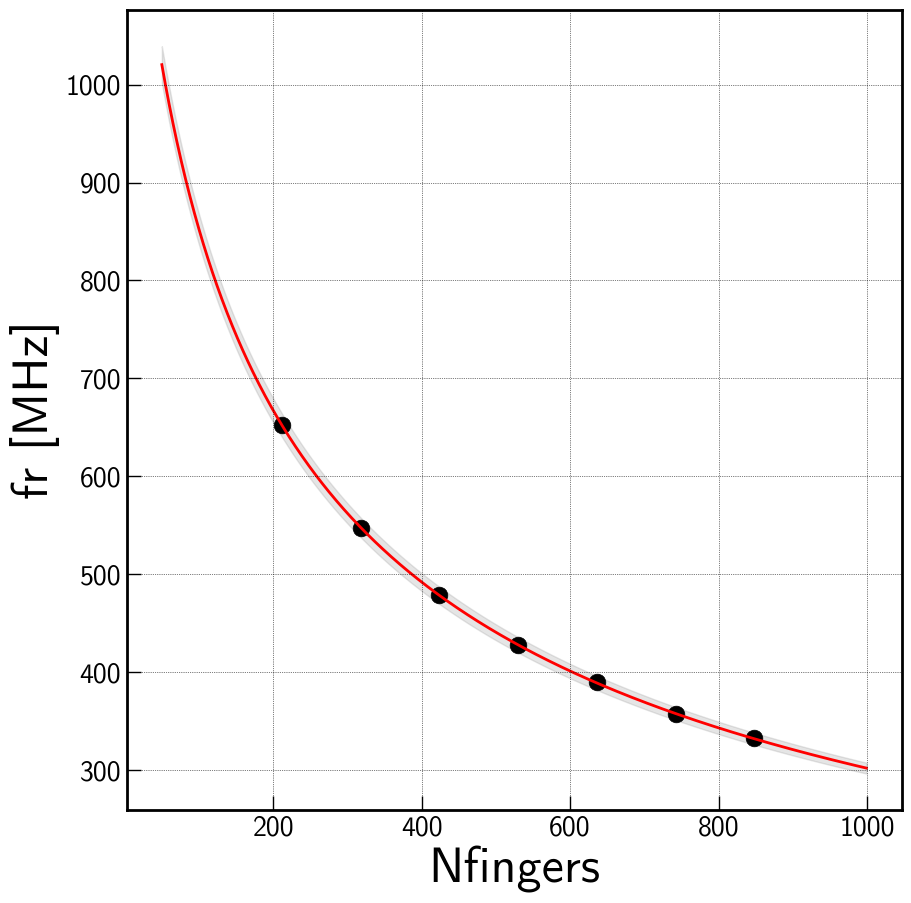
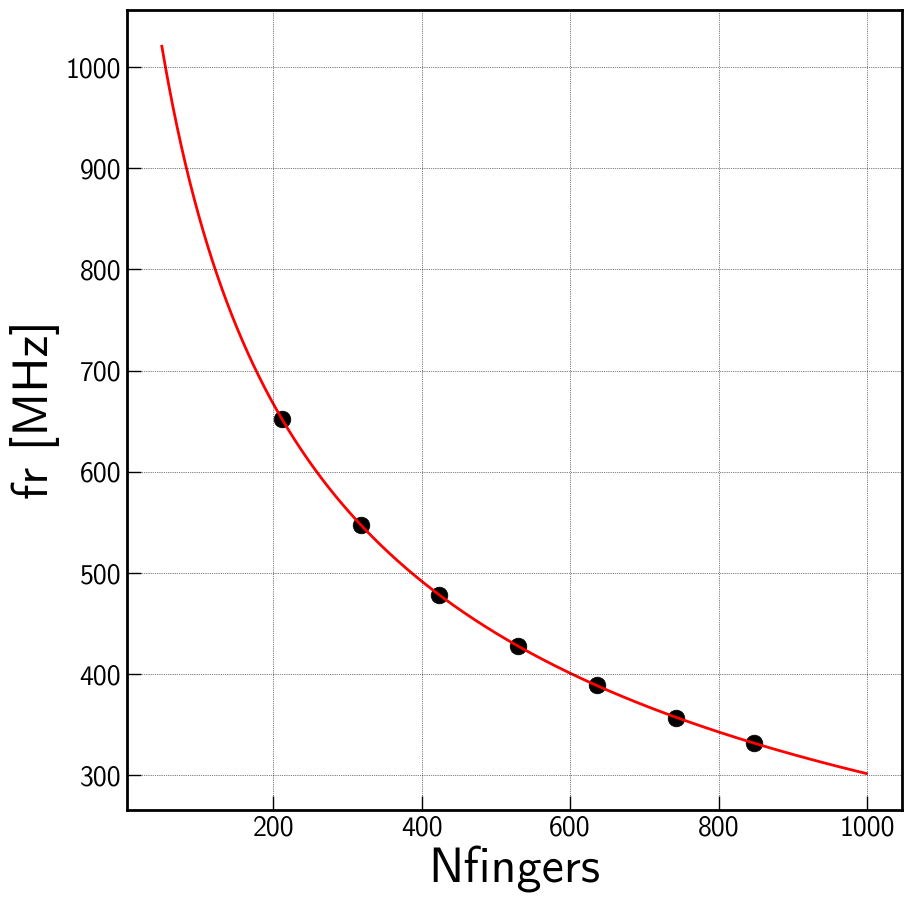
removing the fill between

diff --git a/code/TKIDModule_extractQcsfromfullresosims.py b/code/TKIDModule_extractQcsfromfullresosims.py
@@ -37,7 +37,7 @@ colors = prop_cycle.by_key()['color'][1:]
 plot_diagnostic = True
 if not os.path.exists(plotdir):
     os.mkdir(plotdir)
-doS21analysis = True
+doS21analysis = False
 
 def load_data(fn, nports=1, paramtype='Y'):
     p = paramtype
@@ -593,7 +593,7 @@ if __name__=="__main__":
         print ("Capacitance ", Cs/pF)
         print ("Parasitic inductance ", Ls/nH)
         print (Rs)
-        exit()
+        #exit()
 
         plt.figure(1)
         plt.grid()
@@ -704,7 +704,7 @@ if __name__=="__main__":
         plt.figure()
         plt.plot(Nfingers, frs, 'ko', ls='None', ms=12)
         plt.plot(Nfine, frfine, 'r-')
-        plt.fill_between(Nfine, frfine + df, frfine - df, color='gray', alpha=0.2)
+        #plt.fill_between(Nfine, frfine + df, frfine - df, color='gray', alpha=0.2)
         #plt.plot(Nfine, frfine2, 'b-')
         plt.grid()
         plt.xlabel('Nfingers')
@@ -716,7 +716,7 @@ if __name__=="__main__":
         plt.figure()
         plt.plot(Nfingers, residuals, 'ko', ls='None', ms=12)
         #plt.plot(Nfingers, residuals2, 'rs', ls='None', ms=12)
-        plt.fill_between(Nfine, df, -df, color='gray', alpha=0.2)
+        #plt.fill_between(Nfine, df, -df, color='gray', alpha=0.2)
         plt.grid()
         plt.xlabel('Nfingers')
         plt.ylabel('Residuals [MHz]')
